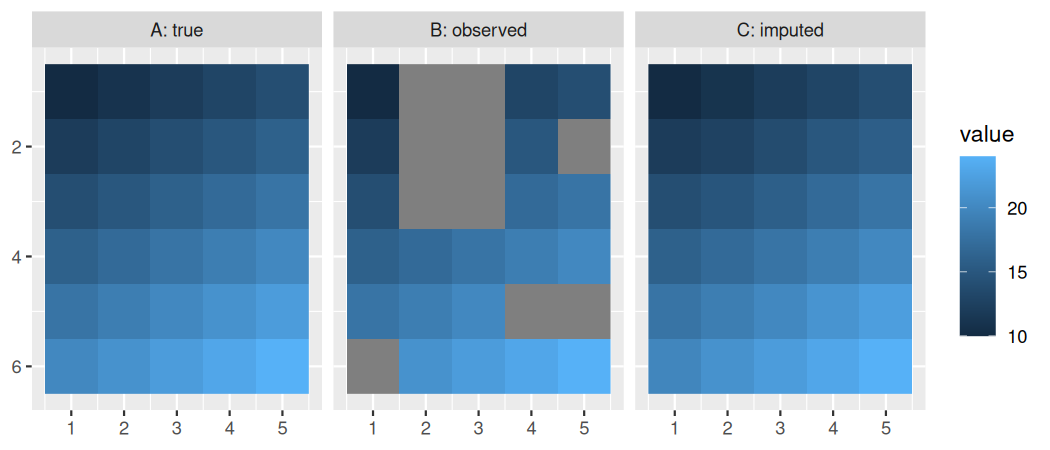
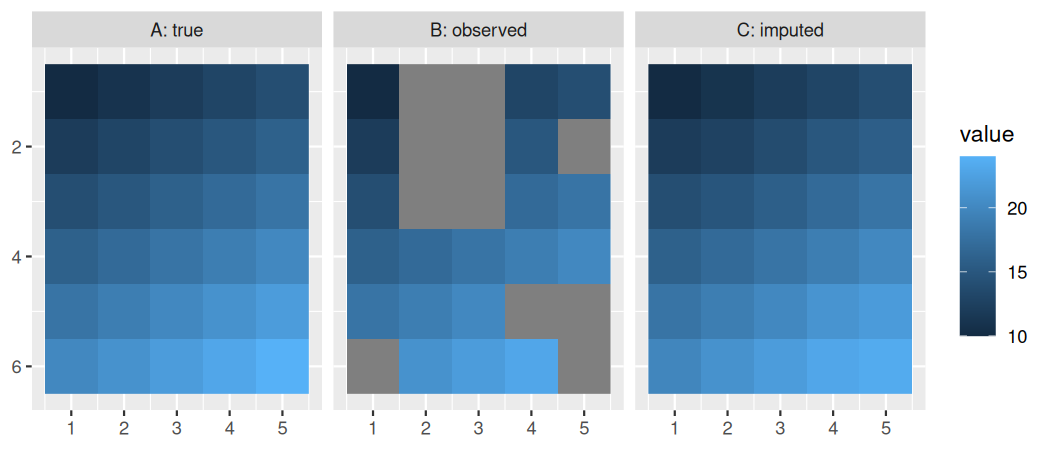
fixed error in rw2d imputation

Changed region(s): [[0.5181, 0.7467, 0.579, 0.9022]]

diff --git a/notes/rw2dimp.html b/notes/rw2dimp.html
@@ -101,7 +101,7 @@
  <span class="hl kwd">c</span><span class="hl std">(</span><span class="hl num">14</span><span class="hl std">,</span> <span class="hl num">NA</span><span class="hl std">,</span> <span class="hl num">NA</span><span class="hl std">,</span> <span class="hl num">17</span><span class="hl std">,</span> <span class="hl num">18</span><span class="hl std">),</span>
  <span class="hl kwd">c</span><span class="hl std">(</span><span class="hl num">16</span><span class="hl std">,</span> <span class="hl num">17</span><span class="hl std">,</span> <span class="hl num">18</span><span class="hl std">,</span> <span class="hl num">19</span><span class="hl std">,</span> <span class="hl num">20</span><span class="hl std">),</span>
  <span class="hl kwd">c</span><span class="hl std">(</span><span class="hl num">18</span><span class="hl std">,</span> <span class="hl num">19</span><span class="hl std">,</span> <span class="hl num">20</span><span class="hl std">,</span> <span class="hl num">NA</span><span class="hl std">,</span> <span class="hl num">NA</span><span class="hl std">),</span>
- <span class="hl kwd">c</span><span class="hl std">(</span><span class="hl num">NA</span><span class="hl std">,</span> <span class="hl num">21</span><span class="hl std">,</span> <span class="hl num">22</span><span class="hl std">,</span> <span class="hl num">23</span><span class="hl std">,</span> <span class="hl num">24</span><span class="hl std">))</span>
+ <span class="hl kwd">c</span><span class="hl std">(</span><span class="hl num">NA</span><span class="hl std">,</span> <span class="hl num">21</span><span class="hl std">,</span> <span class="hl num">22</span><span class="hl std">,</span> <span class="hl num">23</span><span class="hl std">,</span> <span class="hl num">NA</span><span class="hl std">))</span>
 </pre></div>
 </div></div>
 
@@ -182,7 +182,8 @@ where \(\theta = \tau / \kappa\) is the ratio of precisions. Since we assumed th
 <span class="hl std">colsA</span> <span class="hl kwb">=</span> <span class="hl kwd">which</span><span class="hl std">(</span><span class="hl opt">!</span><span class="hl kwd">is.na</span><span class="hl std">(y_vec))</span>
 <span class="hl std">rowsA</span> <span class="hl kwb">=</span> <span class="hl kwd">seq_along</span><span class="hl std">(colsA)</span>
 <span class="hl std">valsA</span> <span class="hl kwb">=</span> <span class="hl kwd">rep</span><span class="hl std">(</span><span class="hl num">1</span><span class="hl std">,</span> <span class="hl kwd">length</span><span class="hl std">(colsA))</span>
-<span class="hl std">AA</span> <span class="hl kwb">=</span> <span class="hl kwd">sparseMatrix</span><span class="hl std">(</span><span class="hl kwc">i</span><span class="hl std">=rowsA,</span> <span class="hl kwc">j</span><span class="hl std">=colsA,</span> <span class="hl kwc">x</span><span class="hl std">=valsA)</span>
+<span class="hl std">dimA</span> <span class="hl kwb">=</span> <span class="hl kwd">c</span><span class="hl std">(</span><span class="hl kwd">length</span><span class="hl std">(rowsA),</span> <span class="hl kwd">length</span><span class="hl std">(y_vec))</span>
+<span class="hl std">AA</span> <span class="hl kwb">=</span> <span class="hl kwd">sparseMatrix</span><span class="hl std">(</span><span class="hl kwc">i</span><span class="hl std">=rowsA,</span> <span class="hl kwc">j</span><span class="hl std">=colsA,</span> <span class="hl kwc">x</span><span class="hl std">=valsA,</span> <span class="hl kwc">dims</span><span class="hl std">=dimA)</span>
 <span class="hl std">AtA</span> <span class="hl kwb">=</span> <span class="hl kwd">crossprod</span><span class="hl std">(AA)</span>
 <span class="hl com"># now `AA %*% x` returns the vector of non-missing values</span>
 
@@ -220,7 +221,7 @@ where \(\theta = \tau / \kappa\) is the ratio of precisions. Since we assumed th
 ## [3,]   14   NA   NA   17   18
 ## [4,]   16   17   18   19   20
 ## [5,]   18   19   20   NA   NA
-## [6,]   NA   21   22   23   24
+## [6,]   NA   21   22   23   NA
 </pre></div>
 
 <div class="output"><pre class="knitr r">## imputed values
@@ -230,8 +231,8 @@ where \(\theta = \tau / \kappa\) is the ratio of precisions. Since we assumed th
 ## [2,] 12.00 12.69 13.79 15.00 15.77
 ## [3,] 14.00 14.79 15.86 17.00 18.00
 ## [4,] 16.00 17.00 18.00 19.00 20.00
-## [5,] 18.00 19.00 20.00 21.23 22.21
-## [6,] 19.83 21.00 22.00 23.00 24.00
+## [5,] 18.00 19.00 20.00 21.19 21.94
+## [6,] 19.83 21.00 22.00 23.00 23.38
 </pre></div>
 
 </div></div>
@@ -260,11 +261,11 @@ where \(\theta = \tau / \kappa\) is the ratio of precisions. Since we assumed th
 <span class="hl com"># imputation error vs total variance ratio</span>
 <span class="hl std">imp_err</span> <span class="hl opt">/</span> <span class="hl std">tot_var</span>
 </pre></div>
-<div class="output"><pre class="knitr r">## [1] 0.002884343
+<div class="output"><pre class="knitr r">## [1] 0.005397514
 </pre></div>
 </div></div>
 
-<p>So the error variance is less than 0.3% of the total variance, which I think should be acceptable in most use cases.
+<p>So the error variance is about 0.5% of the total variance, which I think should be acceptable in most use cases.
 
 <p>More advanced imputation models can include latent processes on multiple scales, and different degrees of spatial correlation in different parts of the domain. For small domains like the one used here, the simple model works well, and not much would be gained by fancier techniques. Of course the performance of the method depends on the data.
 
